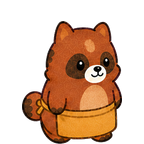
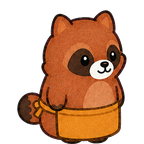
대장간 점장 24장의 몸 크기와 D 색을 통일

diff --git a/docs/art/image-archive.html b/docs/art/image-archive.html
@@ -2132,30 +2132,37 @@
         const file = `smith-${type.toLowerCase()}-${direction}${suffix}.png`;
         return {
           c: 'clerks', shop: '대장간',
-          label: `대장간 일꾼 · ${tier}단 · ${type}무늬 · ${directionLabel}`,
+          label: `대장간 점장 · ${tier}단 · ${type}무늬 · ${directionLabel}`,
           file, icon: '🦝', size: '144×144', priority: 0,
-          actual: `${tier}단 앞치마 · ${direction === 'side' ? '↘ 원화, 반대쪽은 코드 반전' : '↗ 원화, 위쪽 이동'} · ${type === 'A' ? 'QA 보류: 크기 복원' : type === 'B' ? 'QA 보류: 크기·하이앵글 시점' : type === 'C' ? 'QA 보류: 크기·3단 side 꼬리 누락' : 'QA 보류: 크기·눈·톤 통일'}`,
+          actual: `${tier}단 앞치마 · ${direction === 'side' ? '↘ 원화, 반대쪽은 코드 반전' : '↗ 원화, 위쪽 이동'} · A 기준 몸 중심 정규화 · 24장 자동 QA 통과${type === 'D' ? ' · 저채도 한지 베이지' : ''}`,
           status: 'draft',
           src: `../../godot/art/clerks/${file}`,
           path: `godot/art/clerks/${file}`
         };
       }))),
 
-      ...[['A', 'P03'], ['B', 'P04'], ['C', 'P03'], ['D', 'P08']].map(([type, revision]) => {
-        const runtimeOnly = type === 'D';
+      ...[['A', 'P01'], ['B', 'P01'], ['C', 'P02'], ['D', 'P02']].map(([type, revision]) => {
         return {
           c: 'clerks', shop: '대장간', archive: true,
-          label: `대장간 일꾼 완성형 원화 · ${type}타입 · 1~3단 × ${runtimeOnly ? '실사용 2방향' : '대각선 검토 원화'}`,
-          file: `CLERK-SMITH-TYPE-${type}-GROWTH-DIAGONALS-V0.1-${revision}.png`, icon: '🦝',
+          label: `대장간 점장 완성형 원화 · ${type}타입 · 1~3단 × 실사용 2방향`,
+          file: `CLERK-SMITH-TYPE-${type}-GROWTH-RUNTIME-DIRECTIONS-V0.1-${revision}.png`, icon: '🦝',
           size: '승급·방향 원화',
-          actual: runtimeOnly
-            ? '1536×1024 RGBA · 귀 무늬·점박이 제거 · 1단 황토색 면 / 2단 갈색 가죽 / 3단 멜빵형 가죽 앞치마 · ↘ ↗'
-            : '1536×1024 RGBA 검토 시트 · 귀·발·몸 중심 블루프린트 정렬 · 런타임은 ↘ ↗ 두 방향만 사용',
+          actual: `1단 황토색 면 / 2단 갈색 가죽 / 3단 멜빵형 가죽 앞치마 · ↘ side / ↗ back · A 기준 몸 중심${type === 'D' ? ' · 저채도 한지 베이지' : ''}`,
           status: 'draft', priority: 10,
-          src: `generated/CLERK-SMITH-TYPE-${type}-GROWTH-DIAGONALS-V0.1-${revision}.png`,
-          path: `docs/art/generated/CLERK-SMITH-TYPE-${type}-GROWTH-DIAGONALS-V0.1-${revision}.png`
+          src: `generated/CLERK-SMITH-TYPE-${type}-GROWTH-RUNTIME-DIRECTIONS-V0.1-${revision}.png`,
+          path: `docs/art/generated/CLERK-SMITH-TYPE-${type}-GROWTH-RUNTIME-DIRECTIONS-V0.1-${revision}.png`
         };
       }),
+
+      {
+        c: 'clerks', shop: '대장간', archive: true,
+        label: '대장간 점장 A~D · 1~3단 · 실사용 24장 비교판',
+        file: 'SMITH-CLERK-RUNTIME-24-PREVIEW-V0.4.png', icon: '🦝', size: '144px 비교판',
+        actual: 'A~D 몸 중심 폭 차이 최대 1px · 높이 0px · 중심 최대 0.5px · 접지선 0px · 사용자 확인 대기',
+        status: 'draft', priority: 9,
+        src: 'generated/SMITH-CLERK-RUNTIME-24-PREVIEW-V0.4.png',
+        path: 'docs/art/generated/SMITH-CLERK-RUNTIME-24-PREVIEW-V0.4.png'
+      },
 
       {
         c: 'clerks', legacy: true, label: '이전 레이어형 점장 본체 · A타입 무늬 · 방향 시트',
@@ -2293,7 +2300,7 @@
     const categoryName = {
       story: '첫 진입 만화', hero: '촌장·공용 인물', staff: '직원', items: '물건', guests: '손님', cards: '손님 카드',
       shopcards: '점장 카드', pests: '상호작용', stalls: '좌판', counters: '계산대',
-      kilns: '가마·풀무', ui: '뽑기·룰렛', clerks: '가게별 일꾼'
+      kilns: '가마·풀무', ui: '뽑기·룰렛', clerks: '가게별 점장'
     };
     const categoryDir = {
       story: 'story', hero: 'hero', staff: 'staff', items: 'items', guests: 'guests', cards: 'cards',

diff --git a/docs/art/IMAGE_ARCHIVE.md b/docs/art/IMAGE_ARCHIVE.md
@@ -713,26 +713,26 @@
 
 ---
 
-## 대장간 일꾼 완성형 A~D · 1~3단 · 2026-08-26
+## 대장간 점장 완성형 A~D · 1~3단 · 2026-08-27
 
-장비를 붙이는 구조는 중단했다. 대장간 일꾼은 A~D 무늬 타입별 완성형이며, 최초 배치와 추가 채용을 같은 그림 체계로 쓴다. 손 도구 없이 앞치마만 승급한다. 런타임 필수 원화는 `↘ ↗` 두 방향이며 반대쪽은 코드 반전을 사용한다. A~C의 네 방향 판은 기존 검토 원화로 보존하고, 재설계한 D부터 두 방향만 제작한다.
+장비를 붙이는 구조와 점장·일꾼 이미지 분리는 중단했다. 대장간 너구리는 A~D 무늬 타입별 완성형이며 손 도구 없이 앞치마만 승급한다. 런타임 필수 원화는 `↘ side`·`↗ back` 두 방향이며 반대쪽은 코드 반전을 사용한다. A 신체를 기준으로 B~D의 눈·귀·몸·발을 통일했고 D는 개나리색 대신 저채도 한지·볏짚 베이지를 쓴다.
 
 <table>
   <tr>
-    <td align="center"><img src="./generated/CLERK-SMITH-TYPE-A-GROWTH-DIAGONALS-V0.1-P03.png" width="360" alt="대장간 점장 A타입 1~3단 대각선 차렷자세 수정본"></td>
-    <td align="center"><img src="./generated/CLERK-SMITH-TYPE-B-GROWTH-DIAGONALS-V0.1-P04.png" width="360" alt="대장간 점장 B타입 1~3단 대각선 차렷자세와 귀 수정본"></td>
+    <td align="center"><img src="./generated/CLERK-SMITH-TYPE-A-GROWTH-RUNTIME-DIRECTIONS-V0.1-P01.png" width="360" alt="대장간 점장 A타입 1~3단 실사용 두 방향 기준판"></td>
+    <td align="center"><img src="./generated/CLERK-SMITH-TYPE-B-GROWTH-RUNTIME-DIRECTIONS-V0.1-P01.png" width="360" alt="대장간 점장 B타입 1~3단 A 신체 기준 시점 수정본"></td>
   </tr>
   <tr>
-    <td><strong>A타입 · 초안</strong><br>황토색 면 → 갈색 가죽 → 멜빵형 가죽 앞치마.</td>
-    <td><strong>B타입 · 초안</strong><br>같은 승급 규칙, B타입 비대칭 털 무늬.</td>
+    <td><strong>A타입 · 기준</strong><br>황토색 면 → 갈색 가죽 → 멜빵형 가죽 앞치마.</td>
+    <td><strong>B타입 · 수정</strong><br>A와 같은 눈 높이·몸 크기, 회색 비대칭 등 무늬.</td>
   </tr>
   <tr>
-    <td align="center"><img src="./generated/CLERK-SMITH-TYPE-C-GROWTH-DIAGONALS-V0.1-P03.png" width="360" alt="대장간 점장 C타입 1~3단 대각선 차렷자세 수정본"></td>
-    <td align="center"><img src="./generated/CLERK-SMITH-TYPE-D-GROWTH-DIAGONALS-V0.1-P08.png" width="360" alt="대장간 점장 D타입 1~3단 실제 사용 방향 ↘ ↗ 재설계본"></td>
+    <td align="center"><img src="./generated/CLERK-SMITH-TYPE-C-GROWTH-RUNTIME-DIRECTIONS-V0.1-P02.png" width="360" alt="대장간 점장 C타입 1~3단 꼬리 보존 수정본"></td>
+    <td align="center"><img src="./generated/CLERK-SMITH-TYPE-D-GROWTH-RUNTIME-DIRECTIONS-V0.1-P02.png" width="360" alt="대장간 점장 D타입 1~3단 저채도 한지 베이지 수정본"></td>
   </tr>
   <tr>
-    <td><strong>C타입 · 초안</strong><br>손에 든 물건 없이 앞치마 재료만 성장.</td>
-    <td><strong>D타입 · 초안</strong><br>귀 무늬·점박이를 없앤 연황색 몸, 단순 얼굴 마스크, 큰 등판 한 면, 단색 꼬리 끝. 열은 `↘ ↗`만 사용.</td>
+    <td><strong>C타입 · 수정</strong><br>A와 같은 몸 중심, 분리된 꼬리를 세 단계 모두 보존.</td>
+    <td><strong>D타입 · 수정</strong><br>귀 무늬·점박이 없는 한지 베이지 몸, 단순 얼굴 마스크, 등판 한 면, 단색 꼬리 끝.</td>
   </tr>
 </table>
 
@@ -741,6 +741,6 @@
 ### 런타임 24장 분리
 
 <table>
-  <tr><td align="center"><img src="./generated/SMITH-CLERK-RUNTIME-24-PREVIEW-V0.3.png" width="900" alt="차렷자세 발 크기 귀 무늬를 수정한 대장간 점장 A D 무늬 1 3단 옆 뒤 런타임 24장"></td></tr>
-  <tr><td><strong>Hold · LOG-SMITH-COMPLETE-005</strong><br>24장 모두 144×144 RGBA, 발끝 y=143, 중심 오차 1px 이내라는 기계 검사는 통과했지만 신체 크기·눈·시점·꼬리 보존 검사는 실패했다. A~C는 작고 D는 크며, D 눈은 A보다 크고 B 얼굴은 아래로 내려가 있다. C 3단 side 꼬리도 파생 중 누락됐다. 현재 파일은 비교용 초안이며 재정규화 전 최종 승인하지 않는다.</td></tr>
+  <tr><td align="center"><img src="./generated/SMITH-CLERK-RUNTIME-24-PREVIEW-V0.4.png" width="900" alt="A 신체 기준으로 크기와 시점을 통일한 대장간 점장 A D 타입 1 3단 옆 뒤 런타임 24장"></td></tr>
+  <tr><td><strong>User review · LOG-SMITH-COMPLETE-006</strong><br>24장 모두 144×144 RGBA. A~D 몸 중심 차이는 폭 최대 1px, 높이 0px, 중심 최대 0.5px, 접지선 0px다. B 하이앵글과 C 꼬리 누락을 수정했고 D는 저채도 한지·볏짚 베이지로 변경했다.</td></tr>
 </table>

diff --git a/docs/art/05_GENERATION_LOG.md b/docs/art/05_GENERATION_LOG.md
@@ -2184,3 +2184,27 @@
 - A~C는 컨셉 통과를 유지하지만 현재 런타임 크기는 통과가 아니다.
 - D는 연황색·단순 얼굴 마스크·큰 등판 면·단색 꼬리 끝 컨셉만 유지하고 A 신체 비율로 다시 맞춘다.
 - 다음 원화 수정 전까지 현재 24장은 비교용 초안으로만 사용한다.
+
+---
+
+## LOG-SMITH-COMPLETE-006 · A 신체 기준 24장 재정규화와 D 저채도 수정
+
+- 날짜: 2026-08-27
+- 실사용 원화: A·B `RUNTIME-DIRECTIONS P01`, C·D `RUNTIME-DIRECTIONS P02`
+- 런타임 미리보기: `generated/SMITH-CLERK-RUNTIME-24-PREVIEW-V0.4.png`
+- 도구: built-in image generation/edit + `tools/slice-smith-clerks.cjs` + `tools/qa-smith-clerks.cjs`
+- 결과: `Revised / User review`
+
+### 수정
+
+- A의 눈·귀·몸통·발·카메라를 기준 신체로 고정하고 B~D는 털색·큰 무늬·앞치마만 바꿨다.
+- B의 하이앵글 시점을 제거했고 C의 분리된 꼬리를 전 단계에서 보존했다.
+- D의 고채도 연황색을 탁한 한지·볏짚 베이지로 낮추고 작은 A형 눈과 짧은 귀를 적용했다.
+- 전체 외곽이 아니라 몸 중심을 A에 맞춰, 떨어진 꼬리의 간격이 캐릭터 몸 크기를 바꾸지 않게 했다.
+
+### 검사
+
+- 24/24장 `144×144 RGBA`.
+- 단계·방향별 A~D 몸 중심은 폭 최대 1px, 높이 0px, 중심 최대 0.5px, 접지선 0px 차이다.
+- 필수 방향은 `↘ side`와 `↗ back`뿐이며 반대 방향은 코드 반전을 사용한다.
+- 상태: 실제 144px 비교판 사용자 확인 전까지 `User review`.

diff --git a/docs/art/blueprints/SMITH-RACCOON-QA-AUDIT-2026-08-26.md b/docs/art/blueprints/SMITH-RACCOON-QA-AUDIT-2026-08-26.md
@@ -80,3 +80,14 @@
 4. 타입마다 개별 크기 보정을 하지 말고 동일 신체 기준점을 사용한다.
 5. 꼬리를 포함한 모든 의도된 조각을 보존하도록 자르기 도구를 수정한다.
 6. A~D × 1~3단 × `side/back` 비교판을 보여 준 뒤에만 런타임을 교체한다.
+
+## 5. 2026-08-27 수정 결과
+
+- A 승인 신체에서 `↘ side`·`↗ back` 두 방향만 고정하고 B~D는 털색·큰 무늬·앞치마만 다시 적용했다.
+- B의 눈과 주둥이를 A 높이로 올려 하이앵글 느낌을 제거했다.
+- C 3단 side를 포함해 몸에서 떨어진 꼬리도 보존하도록 파생 도구를 수정했다.
+- 전체 외곽 폭이 아니라 **가장 큰 몸 중심(core body)**을 A와 맞춘다. 꼬리가 몸에서 멀어져도 몸통이 함께 축소되지 않는다.
+- D는 고채도 개나리색을 폐기하고 저채도 한지·볏짚 베이지로 바꿨다. 눈·귀·발·외곽선은 A 신체 기준을 따른다.
+- `tools/qa-smith-clerks.cjs`가 24장 RGBA 크기와 단계·방향별 A~D 몸 중심 폭·높이·중심·접지선을 자동 비교한다.
+- 자동 검사 결과 24/24장 통과. 몸 중심 차이는 폭 최대 1px, 높이 0px, 중심 최대 0.5px, 접지선 0px다.
+- 실제 144px 비교판: `generated/SMITH-CLERK-RUNTIME-24-PREVIEW-V0.4.png`.
